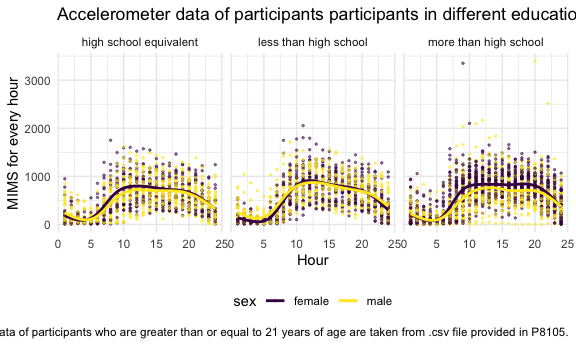
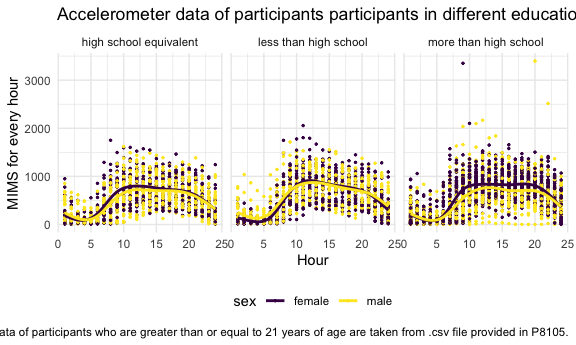
Plots were updated

diff --git a/p8105_hw3_sy3269.md b/p8105_hw3_sy3269.md
@@ -112,10 +112,7 @@ one notable outlier that fall below the overall distribution in July of
 late 1980s where are there are several outstanding outliers in both
 upper and lower area of the distribution in January plot.
 
-Make a two-panel plot showing (i) tmax vs tmin for the full dataset
-(note that a scatterplot may not be the best option); and (ii) make a
-plot showing the distribution of snowfall values greater than 0 and less
-than 100 separately by year.
+### Make a two-panel plot showing (i) tmax vs tmin for the full dataset (note that a scatterplot may not be the best option); and (ii) make a plot showing the distribution of snowfall values greater than 0 and less than 100 separately by year.
 
 # Problem 2
 
@@ -288,7 +285,7 @@ nhanes_data_df |>
   group_by(seqn, hour = rep(1:24, times = 228, each = 60), education, sex) |>
   summarize(mims_hr = sum(mims, na.rm = TRUE), .groups = 'drop') |>
   ggplot(aes(x = hour, y = mims_hr, color = sex)) + 
-  geom_point(alpha = 0.5, size = 0.5) + 
+  geom_point(size=0.5) + 
   geom_smooth(se = FALSE) + 
   facet_grid(. ~ education) + 
   labs(
@@ -459,80 +456,39 @@ during the weekends. However, the median duration of rides is not
 significantly greater in the weekends for 2024 data.
 
 ``` r
-bike_2024_month = 
-  bike_data |>
-  filter(year == 2024) |>
-  group_by(duration, month, member_casual, rideable_type) |>
-  ggplot(aes(x = duration, fill = month)) + 
-  geom_histogram(position = "dodge") +
-  labs(
-    x = "Duration of Ride",
-    y = "Count",
-    title = "Duration of Citibike rides in 2024",
-    color = "Month",
-    caption = "2024 Citibike data provided by P8105 was used.") +
-   theme(plot.caption = element_text(size = 10, hjust = 0.5),
-        plot.margin = margin(t = 10, b = 20, l = 10, r = 10)) 
+#bike_2024_month = 
 
-bike_2024_bike = 
-  bike_data |>
+bike_data |>
   filter(year == 2024) |>
-  group_by(duration, month, member_casual, rideable_type) |>
-  ggplot(aes(x = duration, fill = rideable_type)) + 
-  geom_histogram(position = "dodge") +
+  group_by(rideable_type, duration, month, member_casual) |>
+  summarize() |>
+  ggplot(aes(x = rideable_type, y = duration, fill = member_casual)) + 
+  geom_violin() +
+  facet_wrap(~ month) +
   labs(
-    x = "Duration of Ride",
-    y = "Count",
-    title = "Duration of Citibike rides in 2024",
-    fill = "Bike Type",
-    caption = "2024 Citibike data provided by P8105 was used.") +
-  theme(plot.caption = element_text(size = 10, hjust = 0.5),
-        plot.margin = margin(t = 10, b = 20, l = 10, r = 10)) 
-
-bike_2024_member = 
-  bike_data |>
-  filter(year == 2024) |>
-  group_by(duration, month, member_casual, rideable_type) |>
-  ggplot(aes(x = duration, fill = member_casual)) + 
-  geom_histogram(position = "dodge") +
-  labs(
-    x = "Duration of Ride",
-    y = "Count",
-    title = "Duration of Citibike rides in 2024",
+    x = "Bike Type", 
+    y = "Ride Duration",
     fill = "Membership Type",
-    caption = "2024 Citibike data provided by P8105 was used.") +
-   theme(plot.caption = element_text(size = 10, hjust = 0.5),
-        plot.margin = margin(t = 10, b = 20, l = 10, r = 10)) 
-
-bike_2024_month
+    title = "Duration of Citi Bike rides in 2024",
+    caption = "2024 Citibike data provided by P8105 was used.")
 ```
 
-    ## `stat_bin()` using `bins = 30`. Pick better value with `binwidth`.
+    ## `summarise()` has grouped output by 'rideable_type', 'duration', 'month'. You
+    ## can override using the `.groups` argument.
 
 <img src="p8105_hw3_sy3269_files/figure-gfm/electric_bike_plot-1.png" width="90%" />
 
-``` r
-bike_2024_bike
-```
+For Citi Bike rides data of 2024, a figure that shows the impact of
+month, membership status and bike type on the distribution of ride
+duration is shown above.
 
-    ## `stat_bin()` using `bins = 30`. Pick better value with `binwidth`.
+For short distances in general, member riders tend to ride electric
+bikes more than classic bikes compared to the casual riders. For
+distances in January, the probability of casual riders riding electric
+bikes was higher than that of classic bikes.
 
-<img src="p8105_hw3_sy3269_files/figure-gfm/electric_bike_plot-2.png" width="90%" />
-
-``` r
-bike_2024_member
-```
-
-    ## `stat_bin()` using `bins = 30`. Pick better value with `binwidth`.
-
-<img src="p8105_hw3_sy3269_files/figure-gfm/electric_bike_plot-3.png" width="90%" />
-
-A figure that shows the median duration of ride for membership type per
-the bike type is drawn for January and July 2024 data.
-
-For data in 2024, There were relatively few electric Citi Bikes in 2020,
-but many more are available now.
-
-For data in 2024, make a figure that shows the impact of month,
-membership status, and bike type on the distribution of ride duration.
-Comment on your results.
+In January of 2024, the longest duration of ride using a classic bike
+was greater than the longest duration of electric bike ride. However,
+for July 2024 data, the longest duration of rides for both electric and
+classic bike was not significantly different they were all greater than
+200 minutes.
